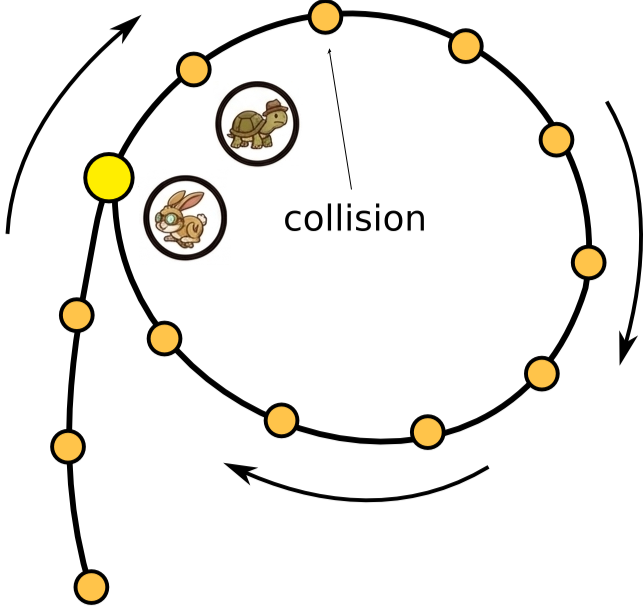
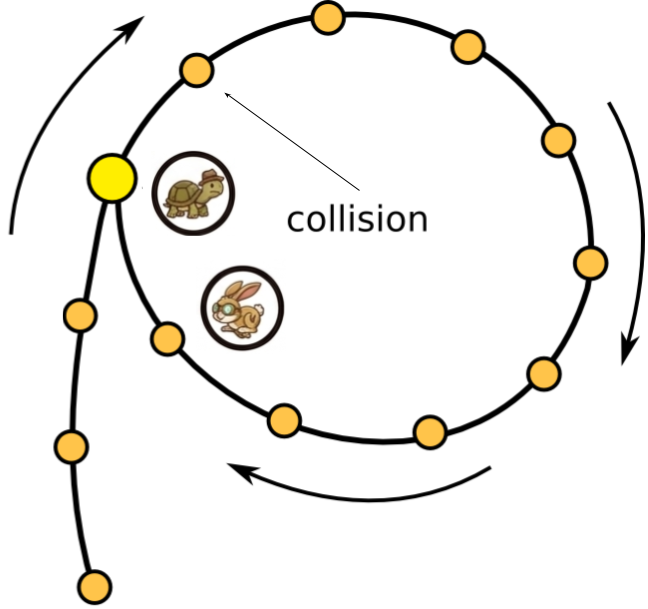
clarifying hw1

diff --git a/classes/201-s26/Crispr.kt b/classes/201-s26/Crispr.kt
@@ -1,0 +1,54 @@
+
+import LinkedUnorderedList
+
+class DNAStrand() : LinkedUnorderedList<Char>() {
+
+    fun addSequence(sequence: List<Char>) {
+        for (base in sequence.reversed()) {
+            addFirst(base)
+        }
+    }
+
+    override fun addFirst(item: Char) {
+        if (item != 'A' && item != 'C' && item != 'G' && item != 'T') {
+            throw IllegalArgumentException("Invalid DNA base: $item")
+        }
+        super.addFirst(item)
+    }
+    
+    /**
+    * Input: A node in the DNA strand to start the match at and a list of characters to check for a match
+    * Output: Null if no match, otherwise the node past the end of the matching sequence in the linked list
+    */
+    fun matchesTemplate(current: Node<Char>?, template: List<Char>): Node<Char>? {
+        //TODO
+        return null
+    }
+
+    /**
+     * Finds the first occurrence of [mutation] and removes it from the strand.
+     * Reconnects the preceding nucleotide to the one following the mutation.
+     */
+    fun snipMutation(mutation: List<Char>) {
+        //TODO
+    }
+
+}
+
+fun main() {
+    val strand = DNAStrand()
+    strand.addSequence(listOf('A', 'C', 'G', 'T'))
+    println("${strand}") 
+    //val endNode = strand.matchesTemplate(strand.getNode(0), listOf('A', 'C')) 
+    //println("Node past the end of matching template in the strand (should be G): ${endNode?.data}")
+
+    //val mutation = listOf('C', 'G')
+    //strand.snipMutation(mutation)
+    //println("${strand}") 
+
+    //val secondStrand = DNAStrand()
+    //secondStrand.addSequence(listOf('A', 'C', 'G', 'T', 'A', 'C', 'G', 'T'))
+    //secondStrand.snipMutation(mutation)
+    //println("${secondStrand}") 
+
+}

diff --git a/classes/201-s26/lab-linkedlist.md b/classes/201-s26/lab-linkedlist.md
@@ -1,7 +1,7 @@
 ---
 layout: page
 title: Linked List Lab
-permalink: /classes/201-f25/linked-list-lab
+permalink: /classes/201-s26/linked-list-lab
 ---
 
 ## Set up
@@ -9,7 +9,52 @@ Follow the steps from the [Scavenger Hunt](kotlin-lab) to mount the COURSES driv
 
 Copy the starter code from [LinkedUL.kt](/classes/201-s26/LinkedUL.kt) in your folder. This code is slightly altered from the reading to add a couple more helpful things (`getNode`, a slightly nicer `toString`, making `head` protected).
 
-## Exercise 1: Cycle Detection
+## Exercise 1: MinMaxList
+While a linked list is not ordered, we can make another variation that keeps track of the maximum and minimum of the items.
+
+1. Create a new file `MinMaxLL.kt` and define a class `MinMaxLL`:
+```kotlin
+import LinkedUnorderedList
+class MinMaxLL() : LinkedUnorderedList<Int>() {
+    var min: Int? = null
+    var max: Int? = null
+}
+```
+
+2. Within your class, override the `addFirst(item: Int)` method to call `super.addFirst(item)` and then update the `min` or `max` if necessary. You'll need to deal with null safety for the `min` and `max` variables, which will be easiest to do by making local `val`s of each.
+
+3. Check to make sure that your `addFirst` works correctly with this test code:
+```kotlin
+fun main() {
+    val list = MinMaxLL()
+    list.addFirst(5)
+    println(list)
+    println("Min: ${list.min} Max: ${list.max}\n") // Min: 5 Max: 5
+    list.addFirst(3)
+    println(list)
+    println("Min: ${list.min} Max: ${list.max}\n") // Min: 3 Max: 5
+    list.addFirst(7)
+    println(list)
+}
+```
+
+4. You'll also need to override `remove(item: Int)` method in case the removed item was the min or max of the list by doing the following:
+    * Again first call `super.remove(item)`, 
+    * then check if the item removed was the max or min,
+    * if it was, you'll need to traverse through the list to reset the max and min
+
+5. Test that your code works by adding the following to your `main`:
+```kotlin
+println("Min: ${list.min} Max: ${list.max}\n") // Min: 3 Max: 7
+list.remove(3)
+println(list)
+println("Min: ${list.min} Max: ${list.max}\n") // Min: 5 Max: 7
+list.remove(7)
+println(list)
+println("Min: ${list.min} Max: ${list.max}\n") // Min: 5 Max: 5
+```
+
+## Exercise 2: Cycle Detection
 Being able to detect "cycles" in a sequences of items is fundamental to many algorithms for security and modern computing, including [cryptography](https://en.wikipedia.org/wiki/Pollard%27s_rho_algorithm_for_logarithms#:~:text=Pollard%2C%20J.%20M.%20(1978).,Handbook%20of%20Applied%20Cryptography.), [networks](https://www.inf.ufsc.br/~bosco.sobral/ensino/ine5645/Computer-Networks---A-Tanenbaum---5th-edition.pdf), and even detecting money laundering! By representing these items as nodes in a linked list, we can easily perform ["Floyd's Cycle-Finding Algorithm"](https://en.wikipedia.org/wiki/Cycle_detection).
 
 Grab the start of the subclass [`CyclicLinkedList`](/classes/201-s26/CyclicLinkedList.kt). It has an updated `toString` that will be able to handle cycles (what would happen with the original `toString`?) once you have implemented `findCycle`. There is also some test code with possible money laundering trails!
@@ -20,12 +65,63 @@ Here is how you should approach detecting a cycle using the "tortoise and hare" 
 * `fast` steps forward two nodes at a time
 * If `slow` and `fast` ever point to the same node, there is a cycle!
 
+Here is a visualization just before the `slow` tortoise and `fast` hare collide:
+
+<center><image src="/classes/201-s26/tortoiseHare.png" alt="Diagram of cyclic linked list with tortoise and hare cartoons about to collide" height="400px"/></center>
+
+Implement this algorithm in `findCycle` and then compile and run with the following to determine which money trail has a money laundering scheme:
+```bash
+kotlinc LinkedUL.kt CyclicLinkedList.kt
+kotlin CyclicLinkedListKt.class 
+```
+
+## Exercise 3: CRISPR
+We can also use linked lists to model strands of DNA! In this exercise, you'll implement a simplified version of the [CRISPR-Cas9 mechanism](https://medlineplus.gov/genetics/understanding/genomicresearch/genomeediting/), which allows scientists to snip out sections of a DNA strand based on a template, for example to remove a mutated gene. 
+
+1. Copy the file [Crispr.kt](/classes/201-s26/Crispr.kt) into your lab folder. It contains the start of a class `DNAStrand` that ensures that the nodes can only have one of the four DNA bases A, C, G, and T. It also contains stubs for the methods that you'll implement and some test code.
+
+
+4. Before you can snip out a mutation, you need to be able to find where a given template matches the DNA strand. Write a function `matchesTemplate` based on this stub (that is in the starter code as well):
+```kotlin
+/**
+* Input: A node in the DNA strand to start the match at and a list of characters to check for a match
+* Output: Null if no match, otherwise the node past the end of the matching sequence in the linked list
+*/
+fun matchesTemplate(current: Node<Char>?, template: List<Char>): Node<Char>? {
+    //TODO
+    return null
+}
+```
+
+5. Use this section of `main` to test your code so far:
+```kotlin
+fun main() {
+    val strand = DNAStrand()
+    strand.addSequence(listOf('A', 'C', 'G', 'T'))
+    println("${strand}") 
+    val endNode = strand.matchesTemplate(strand.getNode(0), listOf('A', 'C')) // should return node containing 'G'
+    println("Node past the end of matching template in the strand (should be G): ${endNode?.data}")
+}
+```
+You should get:
+```bash
+head-> [A|-]-> [C|-]-> [G|-]-> [T|-]-> null
+Node past the end of matching template in the strand (should be G): G
+```
+
+6. Now you're ready to implement `snipMutation(mutation: List<Char>)`, which needs to traverse the `DNAStrand`, checking for a match to the mutation starting at each node. If it find the mutation, it should splice out the nodes containing the mutation. Your method will be fairly similar to `remove` in `LinkedUnorderedList`, so you can look to that for guidance, but think about what you need to do differently.
+
+7. Uncomment the rest of the test code and make sure that you get:
+```bash
+head-> [A|-]-> [T|-]-> null
+head-> [A|-]-> [T|-]-> [A|-]-> [C|-]-> [G|-]-> [T|-]-> null
+```
+
+## Submission
+Once you complete these three exercises, submit your completed files to Moodle for an extra engagement credit. Remember that the labs are open until the last day of class, so there is no rush, but it is great practice to complete these.
+
 ## Extra
-
-If you finish early, try out implementing these methods:
-
-* `removeFirstNode()`
-* `removeLastNode()`
-* `insertAtPosition(position: Int, item: T)`
-* `deleteAtPosition(position: Int)`
-* `deleteSubList(start: Int, end: Int)`
+There is a lot more that can be done with the CRISPR simulation:
+* Sometimes we want to insert a new sequence of bases into the spot that the template matches. Make a new method `insertDNA` that takes both a template to match to and a new sequence to inject at the end of the template.
+* In real life, CRISPR will affect all occurrences of the template, not just the first, update your model to reflect that. Be careful of edge cases such as overlapping templates!
+* DNA is actually double-stranded where each A must pair with a T in the other strand and each C must pair with a G. In computer science, this is called a Multi-Linked List. Update your model to have two strand and each has a connection to its pair in the other list. (You'll need to get creative in how you alter `Node` and probably will want to stop inheriting from `LinkedUnorderedList` at this point, though you could also have a new `DNA` class that holds two `DNAStrands` and maintains the connection between them too.)

diff --git a/classes/201-s26/lab-stacks.md b/classes/201-s26/lab-stacks.md
@@ -36,32 +36,32 @@ fun main() {
 Deep under the hood of Kotlin, `MutableList`s are actually built on the `array` data type.  As you read about, they're tricky to work with, because they have a fixed size. You should refer to the [reading for today](https://runestone.academy/ns/books/published/kotlinds/basic-ds_implementing-an-unordered-list-arrays.html?mode=browsing) for how to create a new array with `arrayOfNulls` and generally work with arrays in this exercise.
 
 1. Write a class `ArrayStack` that implements the `StackADT` interface using an `Array<Int?>` as its underlying data storage. Note that you can define your class to work only with `Int`s like so:
-    ```kotlin
-    class ArrayStack : StackADT<Int> {
+```kotlin
+class ArrayStack : StackADT<Int> {
 
-        //Your code here
-    }
-    ```
-    Also, you may run into some difficulties with needing to return an `Int` when the array contains `Int?`. You can deal with that with either `!!` or `?:` in your return.
+    //Your code here
+}
+```
+Also, you may run into some difficulties with needing to return an `Int` when the array contains `Int?`. You can deal with that with either `!!` or `?:` in your return.
 
 2. Here is a `main` function you should use to test your code:
-    ```kotlin
-    fun main() {
-        val s = ArrayStack()
-        s.push(2025)
-        s.push(4)
-        s.push(16)
+```kotlin
+fun main() {
+    val s = ArrayStack()
+    s.push(2025)
+    s.push(4)
+    s.push(16)
 
-        println("Elements present in stack: ")
-        println(s)
+    println("Elements present in stack: ")
+    println(s)
 
-        println("" + s.pop() + " popped from stack")
-        println("Top element is: " + s.peek())
+    println("" + s.pop() + " popped from stack")
+    println("Top element is: " + s.peek())
 
-        println("Elements present in stack: ")
-        println(s)
-    }
-    ```
+    println("Elements present in stack: ")
+    println(s)
+}
+```
 
 Submit your solutions for these two exercises on Moodle for an extra engagement credit. Remember that labs are open until the end of the term, so don't stress about completing it, but it is good practice.
 

diff --git a/classes/201-s26/hw1.md b/classes/201-s26/hw1.md
@@ -238,7 +238,7 @@ Welcome to Lunar Lander!
 
 ## Part C: Two-player simulation
 
-As a final step, you should modify `main` so that it gives an option for it to be a one-player or a two-player game.  If the user chooses one player, it should be just as described in Part B.  If the user chooses two player, the game should have _two_ `LunarLander` objects descending to the moon, each controlled by different users.  The two players alternate back and forth, entering the amount of burn for their own landers, until something triggers an end of the game, such as a successful landing or a crash.
+As a final step, you should modify `main` so that it gives an option for it to be a one-player or a two-player game by accepting either `1` or `2` as the first input.  If the user chooses one player by entering `1`, it should be just as described in Part B.  If the user chooses two player by entering `2`, the game should have _two_ `LunarLander` objects descending to the moon, each controlled by different users.  The two players alternate back and forth, entering the amount of burn for their own landers, until something triggers an end of the game, such as a successful landing or a crash.
 
 # Required Reflection
 
